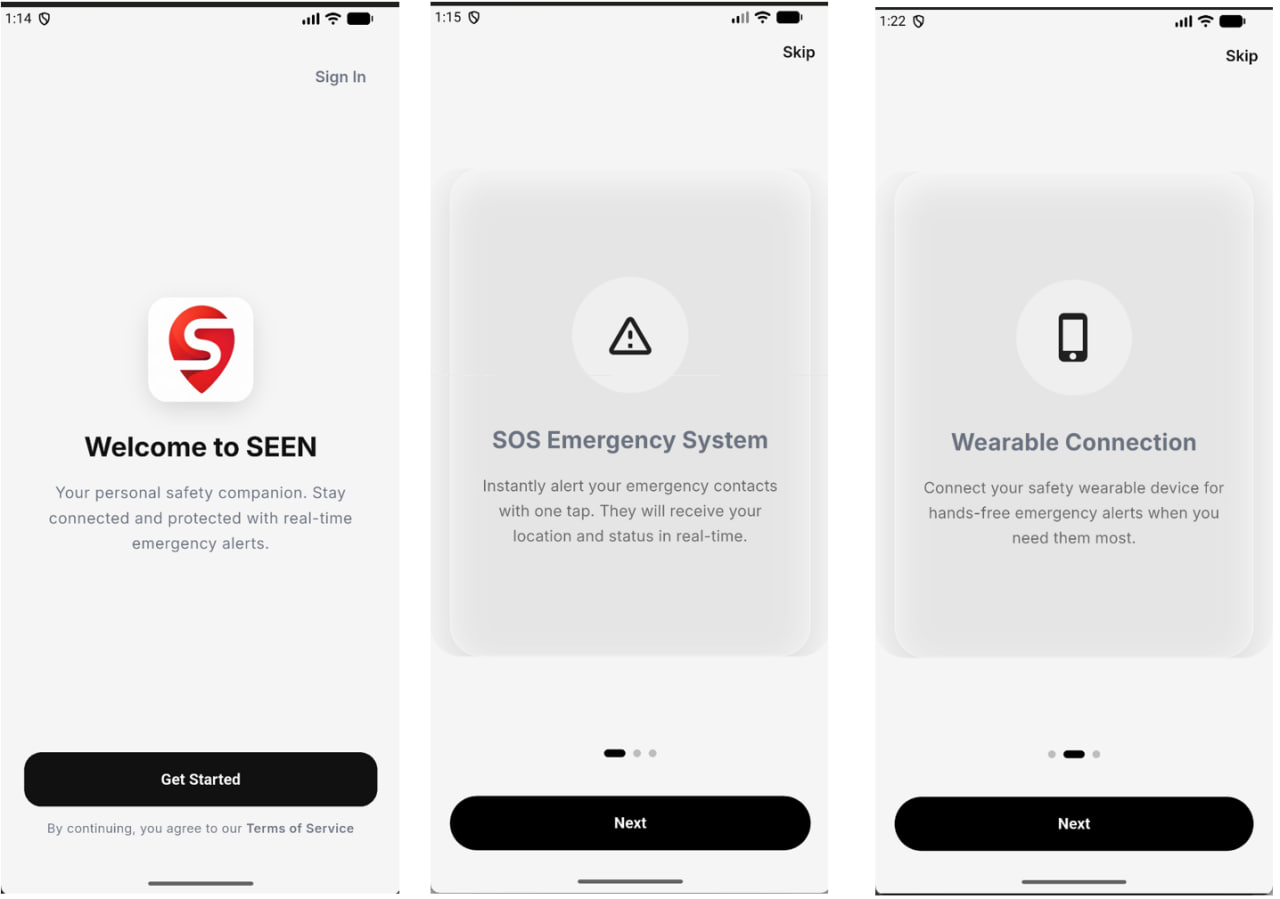
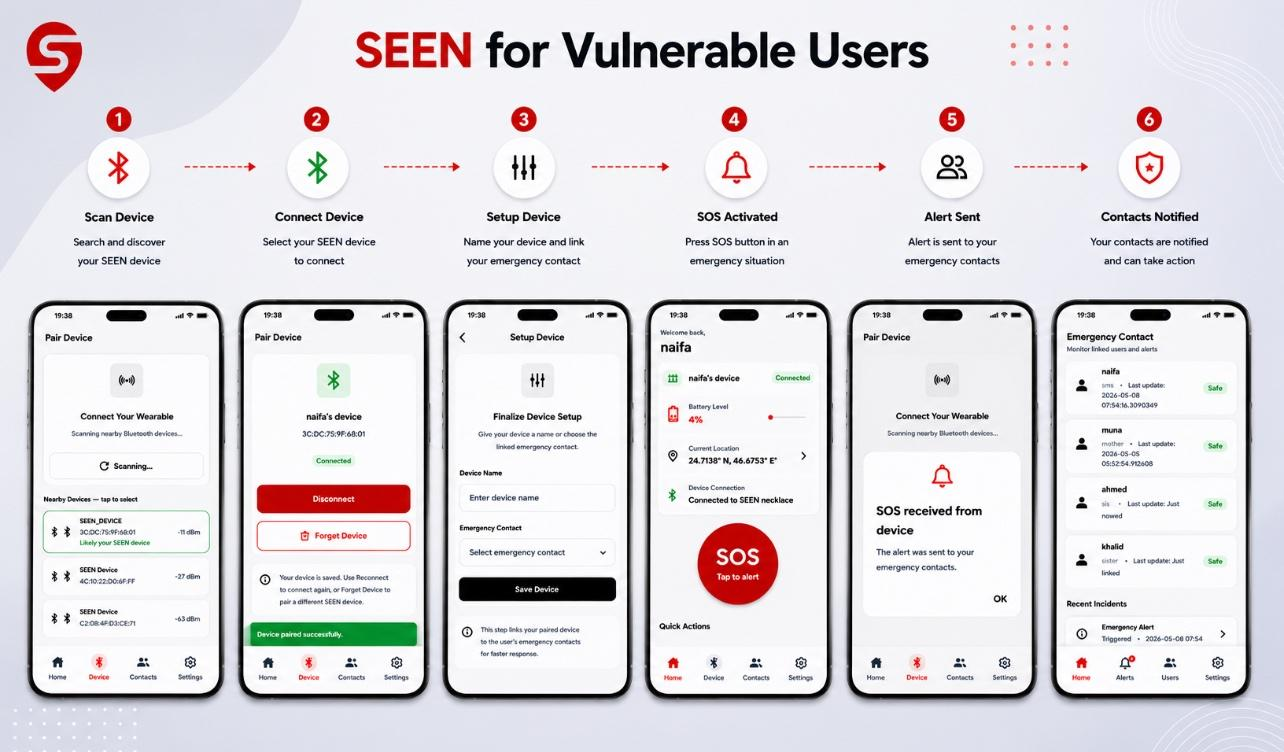
Update portfolio

diff --git a/app/page.tsx b/app/page.tsx
@@ -23,47 +23,49 @@ export default function Home() {
 
       <div>
         {data.hero?.headline && (
-          <Hero data={data.hero} />
+          <section id="home" className="scroll-mt-28">
+            <Hero data={data.hero} />
+          </section>
         )}
 
         {data.about?.name && (
-          <section id="about">
+          <section id="about" className="scroll-mt-28">
             <About data={data.about} />
           </section>
         )}
 
         {data.cv?.headline && (
-          <section id="cv">
+          <section id="cv" className="scroll-mt-28">
             <CVSection data={data.cv} />
           </section>
         )}
 
         {data.portfolio?.items?.length > 0 && (
-          <section id="portfolio">
+          <section id="portfolio" className="scroll-mt-28">
             <Portfolio data={data.portfolio} />
           </section>
         )}
 
         {data.certificates?.items?.length > 0 && (
-          <section id="certificates">
+          <section id="certificates" className="scroll-mt-28">
             <Certificates data={data.certificates} />
           </section>
         )}
 
         {data.trophies?.items?.length > 0 && (
-          <section id="trophies">
+          <section id="trophies" className="scroll-mt-28">
             <Trophies data={data.trophies} />
           </section>
         )}
 
         {data.services?.headline && (
-          <section id="services">
+          <section id="services" className="scroll-mt-28">
             <Services data={data.services} />
           </section>
         )}
 
         {data.cta?.headline && (
-          <section id="cta">
+          <section id="cta" className="scroll-mt-28">
             <CTASection data={data.cta} />
           </section>
         )}

diff --git a/components/landing/navbar.tsx b/components/landing/navbar.tsx
@@ -37,10 +37,16 @@ export function Navbar({ data, brand }: NavbarProps) {
 
   const scrollToSection = (targetSection: string) => {
     const element = document.getElementById(targetSection)
-    if (!element) return
 
-    const headerOffset = 100
-    const elementPosition = element.getBoundingClientRect().top + window.scrollY
+    if (!element) {
+      console.warn(`Section with id "${targetSection}" was not found`)
+      return
+    }
+
+    const headerOffset = 110
+    const elementPosition =
+      element.getBoundingClientRect().top + window.pageYOffset
+
     const offsetPosition = elementPosition - headerOffset
 
     window.scrollTo({
@@ -56,6 +62,7 @@ export function Navbar({ data, brand }: NavbarProps) {
       top: 0,
       behavior: "smooth",
     })
+
     setIsMobileMenuOpen(false)
   }
 
@@ -104,7 +111,10 @@ export function Navbar({ data, brand }: NavbarProps) {
           aria-label={isMobileMenuOpen ? "Close menu" : "Open menu"}
           onClick={() => setIsMobileMenuOpen((prev) => !prev)}
           className="rounded-xl p-2 text-white md:hidden"
-          style={{ WebkitTapHighlightColor: "transparent", touchAction: "manipulation" }}
+          style={{
+            WebkitTapHighlightColor: "transparent",
+            touchAction: "manipulation",
+          }}
         >
           {isMobileMenuOpen ? (
             <X className="h-8 w-8" />